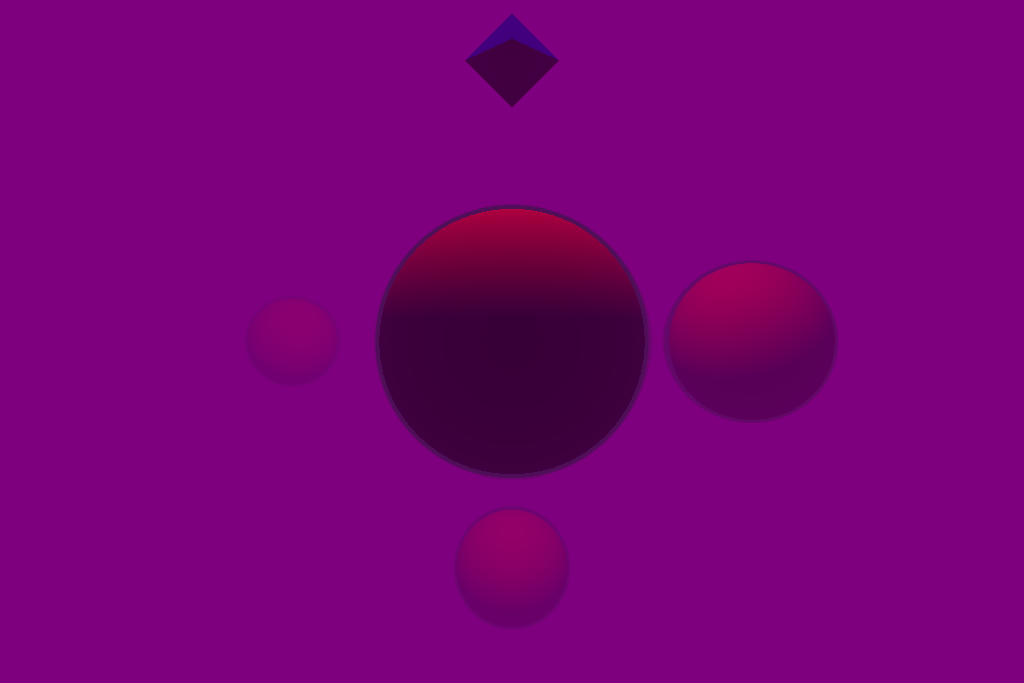
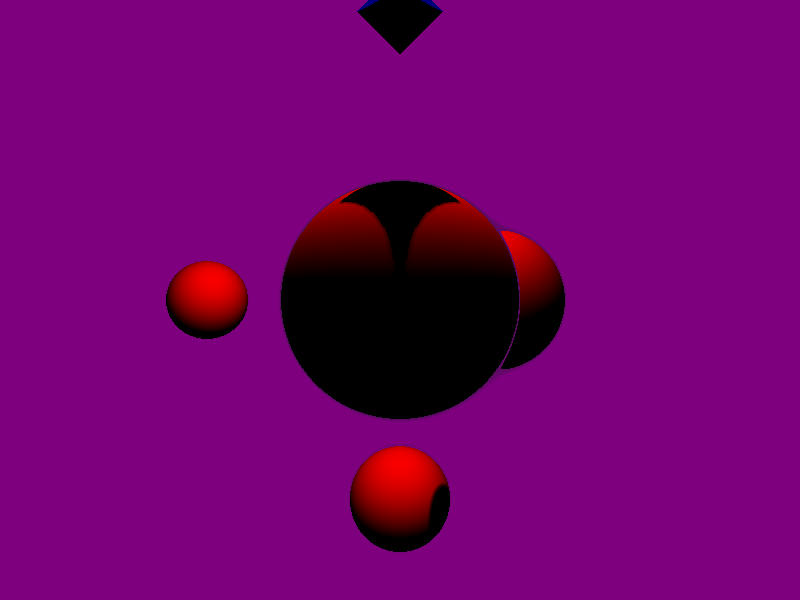
Modificaciones en niebla y sombras.

Changed region(s): [[0.3438, 0.3, 0.8438, 0.93], [0.4375, 0.0, 0.5625, 0.15], [0.1875, 0.42, 0.3125, 0.57]]

diff --git a/src/main.rs b/src/main.rs
@@ -129,7 +129,7 @@ fn clip (valor : f32, min : f32, max: f32) -> f32{
 
 // Cálculo de la sombra "suave" entre objetos. Funciona pero resulta algo ortopédica.
 //
-fn softShadow(ro : Point3, idObjeto :u8, Escena : &Vec<Box<dyn Objeto>>) -> f32 {
+fn softShadow(ro : Point3, idObjeto :u8, Escena : &Vec<Box<dyn Objeto>>, normal : Point3) -> f32 {
     let mut t : f32 = 0.0;
     let mut shadow : f32 = 1.0;
     let mut distancia : f32 = 1000.0;
@@ -143,6 +143,7 @@ fn softShadow(ro : Point3, idObjeto :u8, Escena : &Vec<Box<dyn Objeto>>) -> f32 
 
     let mut color:ColorRGB = ColorRGB { R: 0, G: 0, B: 0 };
     let mut material : Materiales = Materiales::NOMAT;
+    let mut angulo : f32 = 0.0;
 
     // Montamos un vector con los demás objetos, excluyendo el tocado por el rayo
     // Consigo la posición del objeto tocado y más tarde la elimino.
@@ -164,6 +165,15 @@ fn softShadow(ro : Point3, idObjeto :u8, Escena : &Vec<Box<dyn Objeto>>) -> f32 
 
     rd = Normalize(Sub(LIGHT, ro));
 
+    // Compruebo el ángulo entre el vector hacia la luz y la normal del objeto.
+    // Si dicho ángulo pasa de 90 grados (en radianes), no hay sombra. Nos sirve para
+    // evitar "dobles sombras", por ejemplo en la parte superior e inferior de una esfera.
+    //
+    angulo = (Dot(normal, rd) / Length(normal) * Length(rd)).acos();
+    if angulo > NOVENTAGRADOSRAD {
+        return 1.0;
+    }
+
     for i in 1..MAXSTEPS{
         punto = Add(ro,MultiplyByScalar(rd,t));
         let (distancia, idObjeto, colorObjeto, materialObjeto)  = mapTheWorld(punto, &restoEscena);
@@ -182,7 +192,7 @@ fn softShadow(ro : Point3, idObjeto :u8, Escena : &Vec<Box<dyn Objeto>>) -> f32 
 fn applyFog(color : ColorRGB, distancia : f32) -> ColorRGB {
     let mut fogAmount : f32 = 0.0;
 
-    fogAmount = 1.0 - E.powf(-distancia * 0.005);
+    fogAmount = 1.0 - E.powf(-distancia * DENSIDAD);
 
     return mixColor(color, FOGCOLOR, fogAmount)
 
@@ -212,22 +222,30 @@ fn raymarching(ro : Point3, rd : Point3, Escena : &Vec<Box<dyn Objeto>>)  -> Col
         punto = Add(ro,MultiplyByScalar(rd,t));
         let (distancia, idObjeto, colorObjeto, materialObjeto) = mapTheWorld(punto, Escena);
         if distancia < MINIMUM_HIT_DISTANCE {
-            // Si sólo tenemos un objeto no calcularemos sombras.
-            // TODO : Hay que revisar la sombra para que se muestre bien; parece que "atraviesa".
-            // TODO : También debe de verse afectada por la niebla.
-            /*if Escena.len() > 1 {
-                valorSombra = softShadow(punto, idObjeto, Escena);
-                if valorSombra == 0.0 {
-                    return colorSombra
-                }
-            }*/
-
             //directionToLight = Normalize(Sub(punto,LIGHT));
             directionToLight = Normalize(Sub(LIGHT,punto));
             normal = calculateNormal(punto, &Escena, idObjeto as usize);
+
+            // Si sólo tenemos un objeto no calcularemos sombras.
+            // TODO : Hay que revisar la sombra para que se muestre bien; parece que "atraviesa".
+            // TODO : También debe de verse afectada por la niebla.
+            if CASTSHADOWS == true {
+                if Escena.len() > 1 {
+                    valorSombra = softShadow(punto, idObjeto, Escena, normal);
+                    if valorSombra == 0.0 {
+                        if FOG == true {
+                            return applyFog(colorSombra, t);
+                        }
+                        return colorSombra;
+                    }
+                }
+            }
+
             diffuseIntensity = Dot(normal, directionToLight).max(0.0);
             color = ilumina(punto, diffuseIntensity,  colorObjeto, materialObjeto);
-            color = applyFog(color, t);
+            if FOG == true {
+                color = applyFog(color, t);
+            }
             return MultiplyColorByScalar(color , valorSombra)
         }
         t += distancia;
@@ -307,6 +325,9 @@ fn main() {
     // Proceso de la imagen
     //
     for (x, y, pixel) in imgbuf.enumerate_pixels_mut() {
+        if x == 400 && y == 320{
+            print!("GateteRLz")
+        }
         NDC_X = (x as f32 + CORRECCION) / WIDTH as f32;
         NDC_Y = (y as f32 + CORRECCION) / HEIGHT as f32;
 

diff --git a/src/Aux/Definiciones.rs b/src/Aux/Definiciones.rs
@@ -42,8 +42,8 @@ pub struct itemJSON {
     pub material : Materiales
 }
 
-pub const WIDTH: u32 = 1024;
-pub const HEIGHT: u32 = 683;
+pub const WIDTH: u32 = 800;
+pub const HEIGHT: u32 = 600;
 
 pub const MAXSTEPS: u32 = 32;
 
@@ -52,7 +52,9 @@ pub const EPSILON: f32 = 0.01;
 pub const INFINITE: f32 = 100000.0;
 
 pub const FL: f32 = 0.5;
-pub const MINIMUM_HIT_DISTANCE: f32 = 0.01;
+
+// A mayor valor, menor "efecto halo" pero más dientes e la sombra.
+pub const MINIMUM_HIT_DISTANCE: f32 = 0.31;
 
 pub const EYE: Point3 = Point3 { x: 0.0, y: 0.0, z: 0.0 };
 pub const RIGHT: Point3 = Point3 { x: 1.0, y: 0.0, z: 0.0 };
@@ -70,7 +72,10 @@ pub const ImageAspectRatio: f32 = WIDTH as f32 / HEIGHT as f32;
 // Ángulo para el FOV. Actúa como una especie de zoom.
 pub const ALPHA :f32 = 55.0;
 
-pub const DENSIDAD : f32 = 0.5;
+pub const DENSIDAD : f32 = 0.005;
+pub const NOVENTAGRADOSRAD : f32 = 1.5708;
+pub const CASTSHADOWS : bool = true;
+pub const FOG : bool = false;
 
 
 

diff --git a/src/Aux/Vectores.rs b/src/Aux/Vectores.rs
@@ -48,7 +48,7 @@ pub fn MultiplyColorByScalar(a: ColorRGB, scalar : f32) -> ColorRGB{
 
 // Interpolación linear de dos colores. Pásalo a Vectores.
 //
-fn mixColor(x : ColorRGB, y : ColorRGB, a : f32) -> ColorRGB{
+pub fn mixColor(x : ColorRGB, y : ColorRGB, a : f32) -> ColorRGB{
     let mut resultado : ColorRGB = ColorRGB{R:0, G:0, B:0};
 
     resultado.R = (x.R as f32 * (1.0 - a) + y.R as f32 * a) as u8;

diff --git a/README.md b/README.md
@@ -14,6 +14,13 @@ Ruido procedural (usando la librería noise)
   - Worley.
   - OpenSimplex.
   - Multifractal Hybrid.
+
+Sombras
+    - Implementación de sombra suave según idea de Íñigo Quílez.
+
+Niebla
+    - Implementación de niebla volumétrica según idea de Íñigo Quílez.
+
   
 ![Escena de ejemplo](Rustmarching.jpg)
 
@@ -24,3 +31,7 @@ https://www.scratchapixel.com/lessons/3d-basic-rendering/ray-tracing-generating-
 https://www.iquilezles.org/www/articles/distfunctions/distfunctions.htm
 
 http://viclw17.github.io/2018/11/29/raymarching-algorithm/
+
+https://www.iquilezles.org/www/articles/rmshadows/rmshadows.htm
+
+https://iquilezles.org/www/articles/fog/fog.htm
